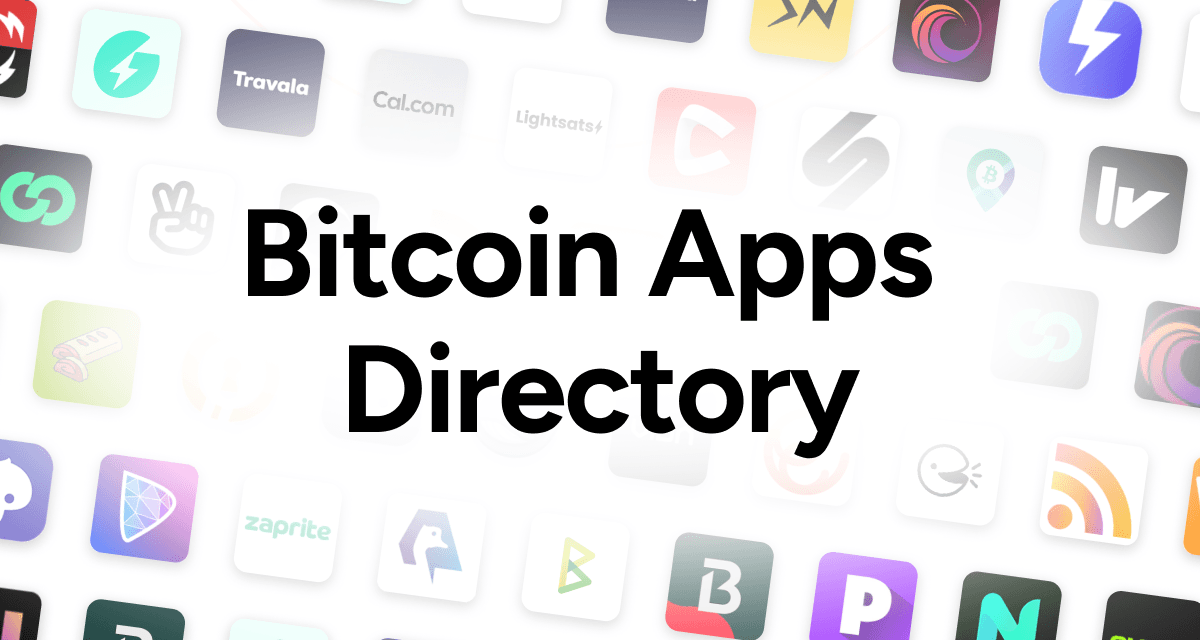
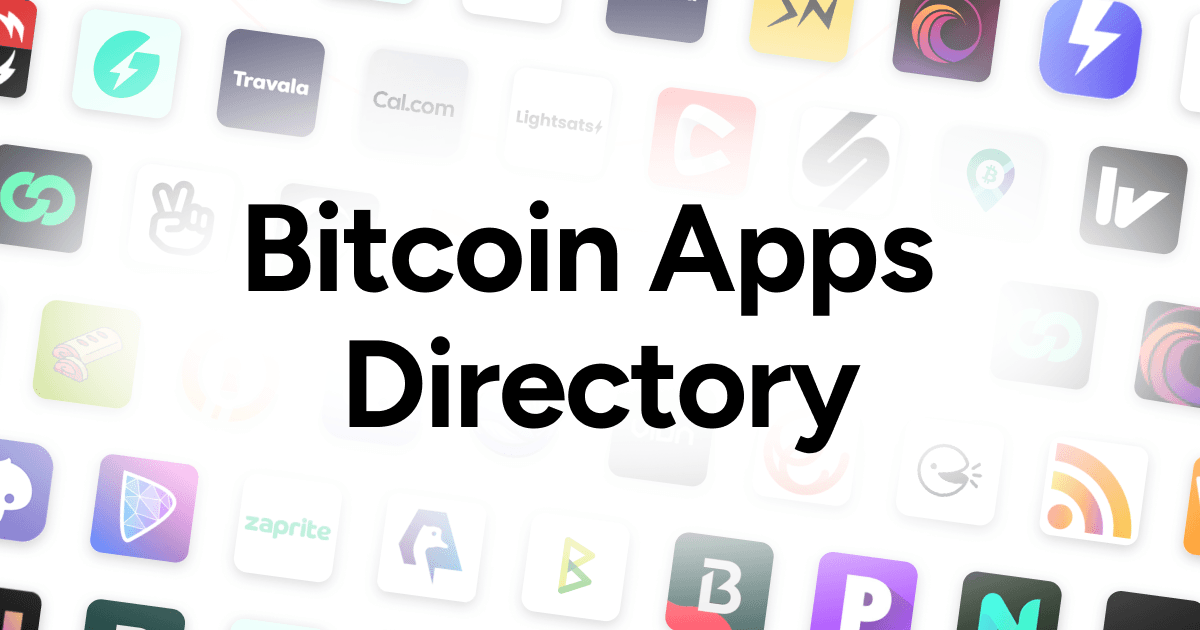
Update OG title and thumbnail dimensions

diff --git a/index.html b/index.html
@@ -8,7 +8,7 @@
       name="description"
       content="A collection of apps, websites and services to connect your bitcoin wallet to."
     />
-    <meta property="og:title" content="Bitcoin Apps Directory" />
+    <meta property="og:title" content="Bitcoin Apps Directory for Lightning Wallets" />
     <meta property="og:url" content="https://bitcoinapps.info/" />
     <meta property="og:type" content="website" />
     <meta
@@ -18,15 +18,15 @@
     <meta property="og:image" content="https://bitcoinapps.info/thumbnail.png" />
     <meta property="og:image:secure_url" content="https://bitcoinapps.info/thumbnail.png" />
     <meta property="og:image:width" content="1200" />
-    <meta property="og:image:height" content="640" />
+    <meta property="og:image:height" content="630" />
     <meta name="twitter:card" content="summary_large_image" />
-    <meta name="twitter:title" content="Bitcoin Apps Directory" />
+    <meta name="twitter:title" content="Bitcoin Apps Directory for Lightning Wallets" />
     <meta
       name="twitter:description"
       content="A collection of apps, websites and services to connect your bitcoin wallet to."
     />
     <meta name="twitter:image" content="https://bitcoinapps.info/thumbnail.png" />
-    <title>Bitcoin Apps Directory</title>
+    <title>Bitcoin Apps Directory for Lightning Wallets</title>
     <!-- Privacy-friendly analytics by Plausible -->
     <script async src="https://plausible.io/js/pa-ICNM4jTwjPRNsr--VzlVi.js"></script>
     <script>
